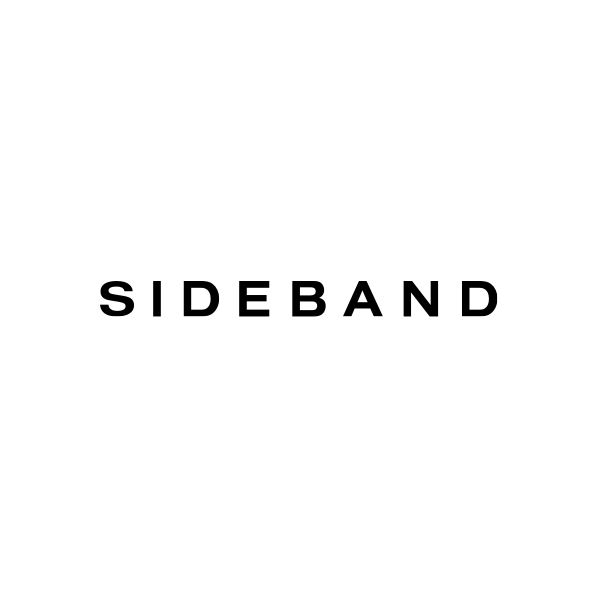
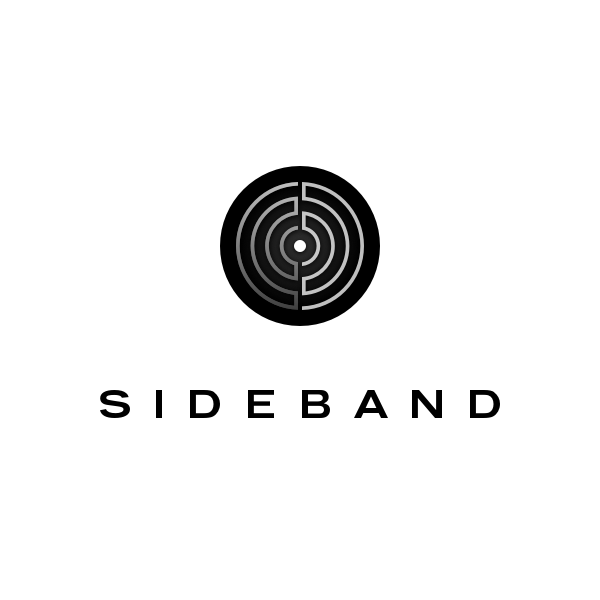
New stuff

diff --git a/source/assets/stylesheets/_layout.sass b/source/assets/stylesheets/_layout.sass
@@ -4,38 +4,47 @@
 body
   width: 100%
   height: 100%
+  background: linear-gradient(to bottom right, #fff, #efefef)
 
 .container
-  max-width: $sitewidth
+  max-width: 100%
+  margin: 0 auto
 
 header[role="banner"]
-  position: fixed
-  top: 50%
-  left: 80px
-  margin-top: -110px
+  text-align: center
+
+  .logo
+    display: block
+    width: 80px
+    height: 80px
+    margin: 80px auto 0
+
+    img
+      display: block
+      width: 80px
+      height: 80px
+      animation: rotation 50s infinite linear
 
   h1
     display: block
-    overflow: hidden
-    width: 158px
-    height: 16px
+    width: 200px
+    height: 14px
+    margin: 80px auto 0
     mask: url(../images/sideband-logo.svg) no-repeat top left
     background: $primary
 
   p
-    margin-top: 64px
+    margin-top: 72px
 
     span
       display: block
 
 .app
   display: block
-  position: fixed
   width: 375px
   height: 766px
   right: 38%
-  bottom: 0
-  margin-right: -10%
+  margin: 80px auto
   box-shadow: 0 10px 30px rgba(0,0,0,.1)
 
   img
@@ -44,9 +53,8 @@ header[role="banner"]
     height: 100%
 
 footer[role="contentinfo"]
-  position: fixed
-  bottom: 80px
-  left: 80px
+  margin: 80px auto
+  text-align: center
 
   p
     color: rgba($primary, .3)

diff --git a/source/assets/stylesheets/_responsive.sass b/source/assets/stylesheets/_responsive.sass
@@ -2,40 +2,3 @@
 // ----------------------------------------------
 
 @media screen and (max-width: 1200px)
-  .app
-    margin-right: -24%
-
-@media screen and (max-width: 920px)
-  .app
-    margin-right: -30%
-
-@media screen and (max-width: 800px)
-  .container
-    max-width: 100%
-
-  header[role="banner"]
-    position: relative
-    top: 0
-    left: 0
-    margin-top: 80px
-    text-align: center
-
-    h1
-      margin: 0 auto
-
-  .app
-    position: relative
-    height: auto
-    right: 0
-    margin: 80px auto
-
-  footer[role="contentinfo"]
-    position: relative
-    bottom: 0
-    left: 0
-    margin: 80px 0
-    text-align: center
-
-@media screen and (max-width: 420px)
-  .app
-    width: 80%

diff --git a/source/assets/stylesheets/_typography.sass b/source/assets/stylesheets/_typography.sass
@@ -3,23 +3,25 @@
 
 =sans-serif
   font:
-    family: -apple-system, BlinkMacSystemFont, "acumin-pro", Helvetica Neue, Helvetica, Arial, sans-serif
+    family: "IBM Plex Mono", Andale Mono, mono, -apple-system, BlinkMacSystemFont, Helvetica Neue, Helvetica, Arial, sans-serif
+  letter-spacing: -.02em
 
 =font-size
   font-size: 18px
 
 body
   +sans-serif
-  line-height: 1.5
-  font-weight: 300
+  line-height: 1.75
+  font-weight: 400
 
 h1,h2,h3,h4
   +sans-serif
   +font-size
-  font-weight: 500
+  font-weight: 600
 
-strong
-  font-weight: 500
+strong,
+.link
+  font-weight: 600
 
 p, ul
   +font-size

diff --git a/source/assets/stylesheets/_animations.sass b/source/assets/stylesheets/_animations.sass
@@ -1,2 +1,8 @@
 // =Animations
 // ----------------------------------------------
+
++keyframes(rotation)
+  from
+    transform: rotate(0deg)
+  to
+    transform: rotate(-359deg)
